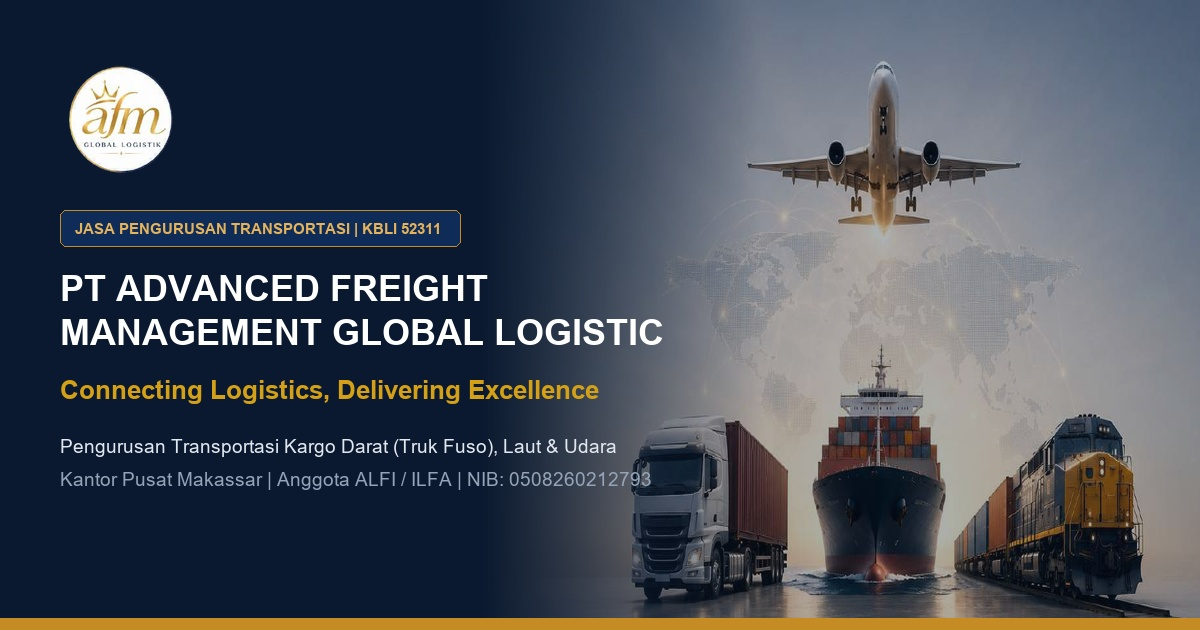
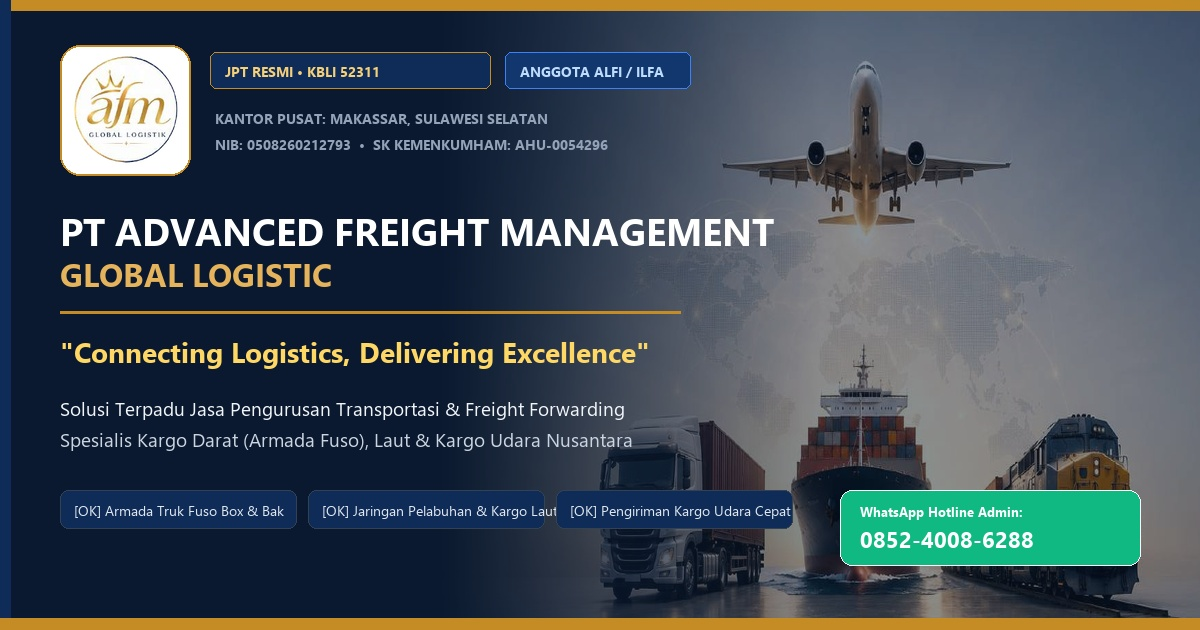
Add files via upload

diff --git a/index.html b/index.html
@@ -26,6 +26,7 @@
   <meta name="twitter:title" content="PT AFM GL | Connecting Logistics, Delivering Excellence">
   <meta name="twitter:description" content="JPT KBLI 52311 & Freight Forwarding Makassar. Solusi pengiriman kargo darat Truk Fuso, laut, dan udara antardaerah & internasional.">
   <meta name="twitter:image" content="assets/images/og-thumbnail-afm.jpg">
+  <link rel="image_src" href="assets/images/og-thumbnail-afm.jpg">
 
   <!-- Favicon -->
   <link rel="icon" type="image/png" href="assets/images/afm-logo.png">
@@ -122,6 +123,7 @@
           <a href="#alur-kerja" class="hover:text-navy-primary transition">Alur Operasional</a>
           <a href="#legalitas" class="hover:text-navy-primary transition">Legalitas</a>
           <a href="#kontak" class="hover:text-navy-primary transition">Kontak</a>
+          <a href="#share-preview" class="hover:text-navy-primary transition flex items-center gap-1 text-slate-600 hover:text-navy-primary"><span class="text-xs">📸</span> Thumbnail WA</a>
         </nav>
 
         <!-- CTA Buttons Desktop -->
@@ -159,6 +161,7 @@
       <a href="#alur-kerja" class="mobile-link block px-3 py-2 rounded-xl font-medium text-slate-800 hover:bg-slate-100 text-sm">Alur Kerja 8 Tahapan (Lipat)</a>
       <a href="#legalitas" class="mobile-link block px-3 py-2 rounded-xl font-medium text-slate-800 hover:bg-slate-100 text-sm">Legalitas & Dokumen Resmi</a>
       <a href="#kontak" class="mobile-link block px-3 py-2 rounded-xl font-medium text-slate-800 hover:bg-slate-100 text-sm">Kontak & Alamat Kantor</a>
+      <a href="#share-preview" class="mobile-link block px-3 py-2 rounded-xl font-medium text-slate-800 hover:bg-slate-100 text-sm flex items-center gap-2"><span>📸</span> Pratinjau Thumbnail & Share WA</a>
       
       <div class="pt-2 border-t border-slate-100 space-y-2">
         <a href="https://drive.google.com/file/d/1Na15-ZoQRCUnlcwrqCh6Lh_Qk3gvEpNt/view?usp=drive_link" target="_blank" rel="noopener noreferrer" class="w-full text-center flex items-center justify-center gap-2 bg-amber-50 text-gold-accent font-bold px-3 py-2.5 rounded-xl text-xs border border-amber-300">
@@ -1097,6 +1100,126 @@
     </div>
   </section>
 
+  <!-- ============================================================
+       PRATINJAU THUMBNAIL & SIMULASI TAMPILAN SHARE WHATSAPP
+       ============================================================ -->
+  <section id="share-preview" class="py-12 bg-slate-100 border-t border-slate-200">
+    <div class="max-w-4xl mx-auto px-4 sm:px-6 lg:px-8">
+      
+      <!-- Section Title Header -->
+      <div class="text-center max-w-2xl mx-auto mb-8">
+        <span class="inline-flex items-center gap-1.5 px-3 py-1 rounded-full text-xs font-bold bg-emerald-100 text-emerald-800 border border-emerald-300 mb-2">
+          <svg class="w-3.5 h-3.5 text-emerald-600" fill="currentColor" viewBox="0 0 24 24"><path d="M12.031 6.172c-3.181 0-5.767 2.586-5.768 5.766-.001 1.298.38 2.27 1.019 3.287l-.582 2.128 2.182-.573c.978.58 1.911.928 3.145.929 3.178 0 5.767-2.587 5.768-5.766.001-3.187-2.575-5.77-5.764-5.771zm3.392 8.244c-.144.405-.837.774-1.17.824-.299.045-.677.063-1.092-.069-.252-.08-.575-.187-.988-.365-1.739-.751-2.874-2.502-2.961-2.617-.087-.116-.708-.94-.708-1.793s.448-1.273.607-1.446c.159-.173.346-.217.462-.217l.332.006c.106.005.249-.04.39.298.144.347.491 1.2.534 1.288.043.088.072.19.014.305-.058.115-.087.19-.173.289l-.26.302c-.087.086-.178.18-.076.355.101.174.45 1.743 1.959 2.085.195.044.312.035.428-.098.115-.133.491-.572.622-.768.13-.196.26-.163.433-.099.173.064 1.097.517 1.285.611.188.094.314.14.36.219.046.079.046.457-.098.862z"/></svg>
+          Pratinjau Thumbnail & Tampilan Share WhatsApp
+        </span>
+        <h2 class="text-xl sm:text-2xl font-black text-navy-primary">
+          Tampilan Link Saat Dibagikan ke WhatsApp & Media Sosial
+        </h2>
+        <p class="text-xs sm:text-sm text-slate-600 mt-2">
+          Berikut adalah gambar banner Open Graph resmi (1200×630 px) dengan logo PT AFM GL dan slogan <strong class="text-navy-primary font-bold">“Connecting Logistics, Delivering Excellence”</strong>.
+        </p>
+      </div>
+
+      <!-- LIVE WHATSAPP BUBBLE SIMULATION CARD -->
+      <div class="bg-white rounded-2xl border border-slate-200 shadow-md overflow-hidden max-w-xl mx-auto">
+        
+        <!-- Simulation Window Header -->
+        <div class="bg-emerald-700 text-white px-4 py-3 flex items-center justify-between">
+          <div class="flex items-center gap-2.5">
+            <div class="w-8 h-8 rounded-full bg-white/20 flex items-center justify-center font-bold text-xs">
+              WA
+            </div>
+            <div>
+              <div class="font-bold text-xs">Simulasi Tampilan Chat WhatsApp</div>
+              <div class="text-[10px] text-emerald-100">Live Preview saat link dikirim ke klien</div>
+            </div>
+          </div>
+          <span class="text-[11px] bg-emerald-800/80 px-2 py-0.5 rounded font-mono">1200 × 630 px</span>
+        </div>
+
+        <!-- Chat Bubble Container (WhatsApp style background) -->
+        <div class="p-4 sm:p-5 bg-[#EFEAE2] flex justify-center">
+          
+          <!-- Incoming Message Bubble -->
+          <div class="w-full max-w-md bg-white rounded-2xl rounded-tl-sm p-2 shadow-sm border border-slate-200/80 text-slate-800 space-y-2">
+            
+            <!-- WhatsApp Rich Link Preview Card inside bubble -->
+            <div class="rounded-xl overflow-hidden border border-slate-200 bg-slate-50 shadow-inner group">
+              <!-- Actual Thumbnail Image -->
+              <div class="relative overflow-hidden bg-navy-dark">
+                <img src="assets/images/og-thumbnail-afm.jpg" alt="Thumbnail Pratinjau WhatsApp PT AFM GL" class="w-full h-auto object-cover group-hover:scale-[1.02] transition duration-300">
+                <span class="absolute top-2 right-2 px-2 py-0.5 rounded bg-black/60 backdrop-blur-sm text-white text-[10px] font-semibold">
+                  Preview HD (1200x630)
+                </span>
+              </div>
+              
+              <!-- Card Info Text under Thumbnail -->
+              <div class="p-3 bg-slate-100/90 border-t border-slate-200">
+                <div class="text-[10px] uppercase font-bold text-slate-500 tracking-wider">AFM-LOGISTIC.COM</div>
+                <div class="font-bold text-xs sm:text-sm text-navy-primary leading-snug mt-0.5 line-clamp-2">
+                  PT AFM GL | Connecting Logistics, Delivering Excellence
+                </div>
+                <div class="text-[11px] text-slate-600 mt-1 line-clamp-2 leading-relaxed">
+                  Jasa Pengurusan Transportasi (JPT) KBLI 52311 & Freight Forwarding resmi Makassar. Spesialis armada Fuso darat, laut, dan kargo udara.
+                </div>
+              </div>
+            </div>
+
+            <!-- Accompanying WhatsApp Message Text -->
+            <div class="px-1 text-xs text-slate-800 leading-relaxed">
+              Halo Rekan Bisnis, berikut website resmi <strong>PT AFM Global Logistic</strong> untuk layanan JPT & ekspedisi kargo darat, laut, dan udara Makassar:
+              <br>
+              <span class="text-blue-600 hover:underline font-semibold text-xs break-all">https://afmgloballogistik.com</span>
+            </div>
+
+            <div class="text-right text-[10px] text-slate-400 pr-1">
+              12:00 ✓✓
+            </div>
+
+          </div>
+
+        </div>
+
+        <!-- Action Controls inside Card -->
+        <div class="p-4 bg-slate-50 border-t border-slate-200 flex flex-col sm:flex-row items-center justify-between gap-3">
+          
+          <a href="assets/images/og-thumbnail-afm.jpg" download="AFM-GL-Thumbnail-1200x630.jpg" class="w-full sm:w-auto inline-flex items-center justify-center gap-1.5 px-4 py-2.5 rounded-xl bg-white border border-slate-300 hover:bg-slate-100 text-slate-700 font-bold text-xs transition shadow-sm" title="Unduh file gambar banner JPG">
+            <svg class="w-4 h-4 text-slate-500" fill="none" stroke="currentColor" viewBox="0 0 24 24"><path stroke-linecap="round" stroke-linejoin="round" stroke-width="2" d="M4 16v1a3 3 0 003 3h10a3 3 0 003-3v-1m-4-4l-4 4m0 0l-4-4m4 4V4"/></svg>
+            <span>Unduh Gambar Thumbnail (.JPG)</span>
+          </a>
+
+          <a href="https://api.whatsapp.com/send?text=PT%20AFM%20GL%20-%20Connecting%20Logistics%2C%20Delivering%20Excellence.%20Layanan%20JPT%20KBLI%2052311%20%26%20Freight%20Forwarding%20Makassar.%20Kunjungi%3A%20https%3A%2F%2Fafmgloballogistik.com" target="_blank" rel="noopener noreferrer" class="w-full sm:w-auto inline-flex items-center justify-center gap-1.5 px-4 py-2.5 rounded-xl bg-emerald-600 hover:bg-emerald-700 text-white font-bold text-xs transition shadow-sm">
+            <svg class="w-4 h-4 text-white" fill="currentColor" viewBox="0 0 24 24"><path d="M12.031 6.172c-3.181 0-5.767 2.586-5.768 5.766-.001 1.298.38 2.27 1.019 3.287l-.582 2.128 2.182-.573c.978.58 1.911.928 3.145.929 3.178 0 5.767-2.587 5.768-5.766.001-3.187-2.575-5.77-5.764-5.771zm3.392 8.244c-.144.405-.837.774-1.17.824-.299.045-.677.063-1.092-.069-.252-.08-.575-.187-.988-.365-1.739-.751-2.874-2.502-2.961-2.617-.087-.116-.708-.94-.708-1.793s.448-1.273.607-1.446c.159-.173.346-.217.462-.217l.332.006c.106.005.249-.04.39.298.144.347.491 1.2.534 1.288.043.088.072.19.014.305-.058.115-.087.19-.173.289l-.26.302c-.087.086-.178.18-.076.355.101.174.45 1.743 1.959 2.085.195.044.312.035.428-.098.115-.133.491-.572.622-.768.13-.196.26-.163.433-.099.173.064 1.097.517 1.285.611.188.094.314.14.36.219.046.079.046.457-.098.862z"/></svg>
+            <span>Coba Bagikan ke WhatsApp</span>
+          </a>
+
+        </div>
+
+      </div>
+
+      <!-- Penjelasan Mengapa Thumbnail Belum Muncul di WA (Penyebab & Solusi) -->
+      <div class="mt-6 max-w-xl mx-auto bg-amber-50 border border-amber-200 rounded-xl p-4 text-xs text-amber-900 leading-relaxed shadow-sm">
+        <div class="flex items-start gap-3">
+          <div class="w-8 h-8 rounded-lg bg-amber-100 text-amber-800 flex items-center justify-center shrink-0 font-bold text-sm">
+            💡
+          </div>
+          <div>
+            <div class="font-bold text-amber-950 text-xs sm:text-sm">Kenapa Gambar Belum Muncul Saat Dicoba Dibagikan di WhatsApp Sekarang?</div>
+            <p class="mt-1 text-amber-900 text-[11px] sm:text-xs">
+              WhatsApp menggunakan <strong>server crawler otomatis (robot Meta)</strong> yang hanya dapat mengunjungi dan menarik gambar dari link <strong>website online di internet (HTTPS)</strong>.
+            </p>
+            <ul class="list-disc list-inside mt-2 space-y-1.5 text-[11px] text-amber-950">
+              <li><strong>Jika Anda mengetik link file lokal laptop (misal <code class="bg-amber-100 px-1 py-0.5 rounded text-[10px] font-mono">file:///C:/Users/...</code>):</strong> Server WhatsApp tidak bisa masuk ke dalam harddisk komputer Anda, sehingga gambar pratinjau tidak akan muncul.</li>
+              <li><strong>Solusi Setelah Online (Hosting):</strong> Saat folder website ini di-upload ke server/hosting dengan domain publik (contoh: <em>https://afmgloballogistik.com</em> atau Vercel/Netlify), robot WhatsApp akan langsung menarik gambar thumbnail ini secara otomatis.</li>
+              <li><strong>Standar Emas Meta:</strong> Gambar ini telah dibuat tepat <strong>1200 × 630 px</strong> (rasio 1.91:1) dan ukuran ringan (~194 KB), sehingga otomatis kompatibel untuk WhatsApp, Facebook, LinkedIn, dan Telegram.</li>
+            </ul>
+          </div>
+        </div>
+      </div>
+
+    </div>
+  </section>
+
   <!-- MODERN & ATTRACTIVE FOOTER (Kekinian, Rapi & Elegan) -->
   <footer class="bg-navy-dark text-slate-400 text-xs py-10 border-t border-navy-subtle/50">
     <div class="max-w-7xl mx-auto px-4 sm:px-6 lg:px-8">
@@ -1127,6 +1250,7 @@
             <li><a href="#layanan" class="hover:text-gold-accent transition">Solusi JPT Terpadu</a></li>
             <li><a href="#alur-kerja" class="hover:text-gold-accent transition">Alur Kerja (8 Tahapan)</a></li>
             <li><a href="#legalitas" class="hover:text-gold-accent transition">Dokumen Legalitas Resmi</a></li>
+            <li><a href="#share-preview" class="hover:text-gold-accent transition">Pratinjau Thumbnail & Share WA</a></li>
             <li><a href="https://drive.google.com/file/d/1Na15-ZoQRCUnlcwrqCh6Lh_Qk3gvEpNt/view?usp=drive_link" target="_blank" rel="noopener noreferrer" class="text-gold-accent font-bold hover:underline flex items-center gap-1 mt-1">Unduh Profil Perusahaan (PDF) ↗</a></li>
           </ul>
         </div>

diff --git a/app.js b/app.js
@@ -9,6 +9,7 @@ document.addEventListener('DOMContentLoaded', () => {
   initClipboardButtons();
   initMobileMenu();
   initNavAnchorScrollWithAutoUnroll();
+  initSharePreview();
 });
 
 // ============================================================
@@ -300,5 +301,39 @@ function initMobileMenu() {
     links.forEach(l => {
       l.addEventListener('click', () => menu.classList.add('hidden'));
     });
+  }
+}
+
+// ============================================================
+// 7. SHARE PREVIEW & OPEN GRAPH THUMBNAIL UTILITY
+// ============================================================
+function initSharePreview() {
+  // If hosted on a web server (http or https), upgrade relative og:image to full absolute URL
+  if (window.location.protocol.startsWith('http')) {
+    try {
+      const absoluteThumbUrl = new URL('assets/images/og-thumbnail-afm.jpg', window.location.href).href;
+      
+      const ogImg = document.querySelector('meta[property="og:image"]');
+      const ogImgSec = document.querySelector('meta[property="og:image:secure_url"]');
+      const twImg = document.querySelector('meta[name="twitter:image"]');
+      const linkImg = document.querySelector('link[rel="image_src"]');
+
+      if (ogImg) ogImg.setAttribute('content', absoluteThumbUrl);
+      if (ogImgSec) ogImgSec.setAttribute('content', absoluteThumbUrl);
+      if (twImg) twImg.setAttribute('content', absoluteThumbUrl);
+      if (linkImg) linkImg.setAttribute('href', absoluteThumbUrl);
+    } catch (e) {
+      console.warn('Could not set absolute OG image URL:', e);
+    }
+  }
+
+  // Dynamic WhatsApp share link
+  const shareBtn = document.querySelector('#share-preview a[href*="api.whatsapp.com"]');
+  if (shareBtn) {
+    const isOnline = window.location.protocol.startsWith('http');
+    const targetUrl = isOnline ? window.location.origin + window.location.pathname : 'https://afmgloballogistik.com';
+    const shareText = `PT ADVANCED FREIGHT MANAGEMENT GLOBAL LOGISTIC (AFM GL)\n“Connecting Logistics, Delivering Excellence”\n\nJPT Resmi KBLI 52311 & Freight Forwarding Makassar.\nLayanan Kargo Darat (Armada Fuso), Laut & Udara Nusantara.\n\n🌐 Kunjungi Website Resmi:\n${targetUrl}\n\n📄 Unduh Company Profile PDF:\nhttps://drive.google.com/file/d/1Na15-ZoQRCUnlcwrqCh6Lh_Qk3gvEpNt/view?usp=drive_link`;
+
+    shareBtn.href = `https://api.whatsapp.com/send?text=${encodeURIComponent(shareText)}`;
   }
 }
